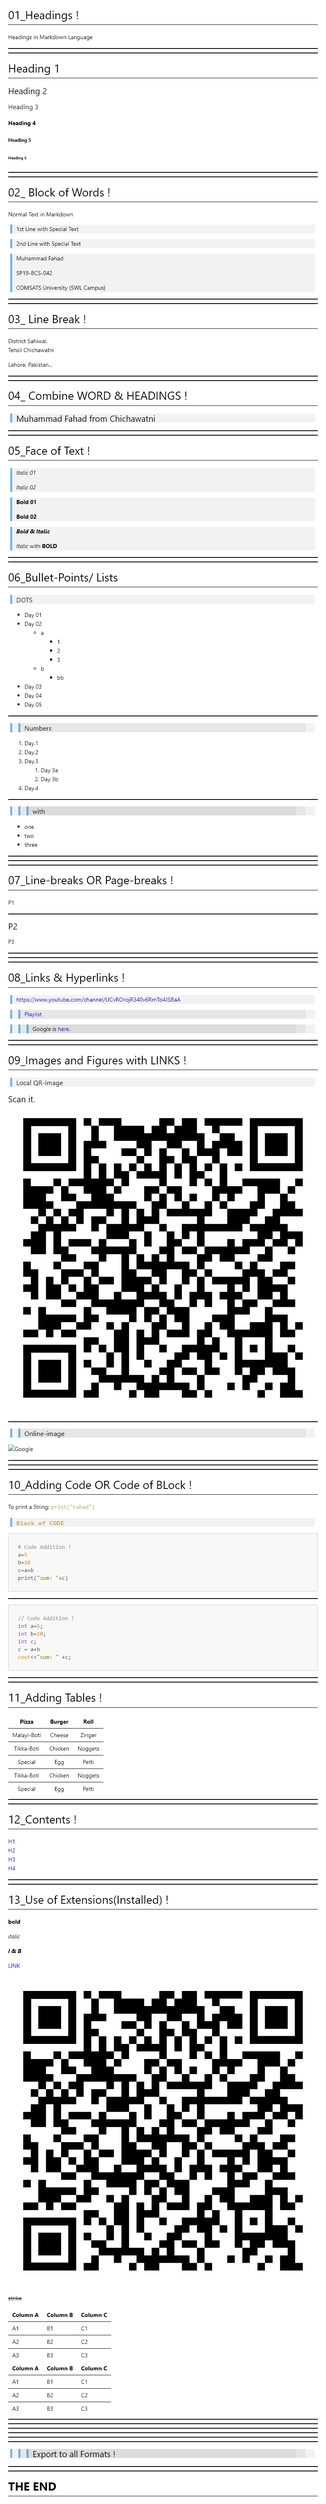
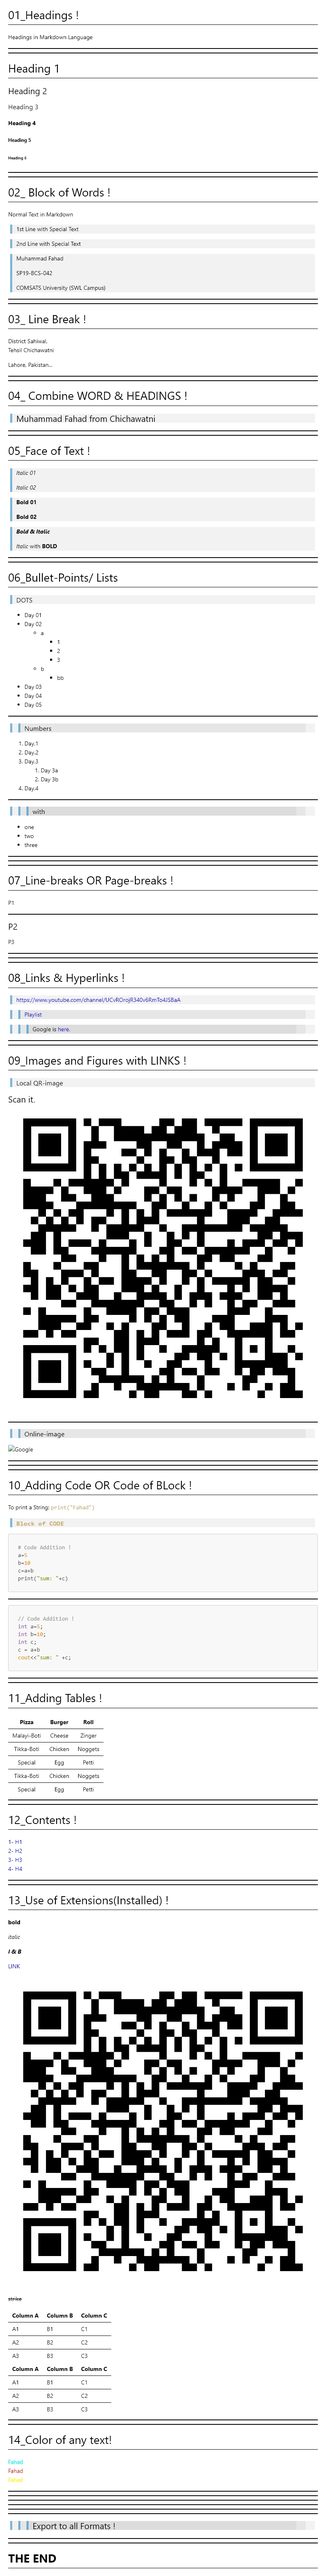
update colors !

Changed region(s): [[0.0312, 0.0, 0.9688, 0.9998], [0.2188, 0.2187, 0.2812, 0.25], [0.3125, 0.2187, 0.3438, 0.25]]

diff --git a/cheat_sheet.html b/cheat_sheet.html
@@ -580,10 +580,10 @@ c = a+b
 <hr>
 <hr>
 <h1 id="12contents">12_Contents !</h1>
-<p><a href="#01_headings-">H1</a><br>
-<a href="#02_-block-of-words-">H2</a><br>
-<a href="#03_-line-break-">H3</a><br>
-<a href="#04_-combine-word--headings-">H4</a></p>
+<p><a href="#01_headings-">1- H1</a><br>
+<a href="#02_-block-of-words-">2- H2</a><br>
+<a href="#03_-line-break-">3- H3</a><br>
+<a href="#04_-combine-word--headings-">4- H4</a></p>
 <hr>
 <hr>
 <h1 id="13use-of-extensionsinstalled">13_Use of Extensions(Installed) !</h1>
@@ -645,6 +645,12 @@ c = a+b
 </tr>
 </tbody>
 </table>
+<hr>
+<hr>
+<h1 id="14color-of-any-text">14_Color of any text!</h1>
+<p><span style="color:cyan">Fahad</span><br>
+<span style="color:red">Fahad</span><br>
+<span style="color:yellow">Fahad</span></p>
 <hr>
 <hr>
 <hr>
